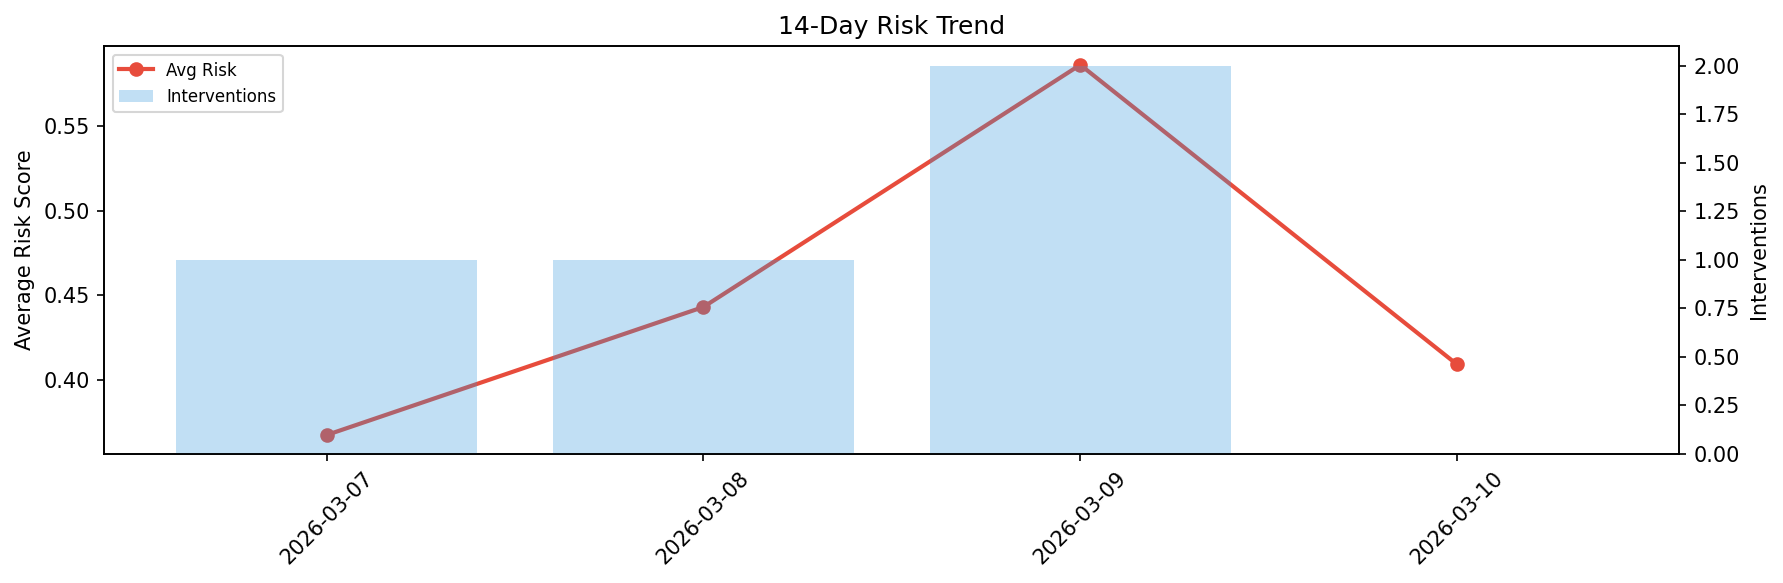
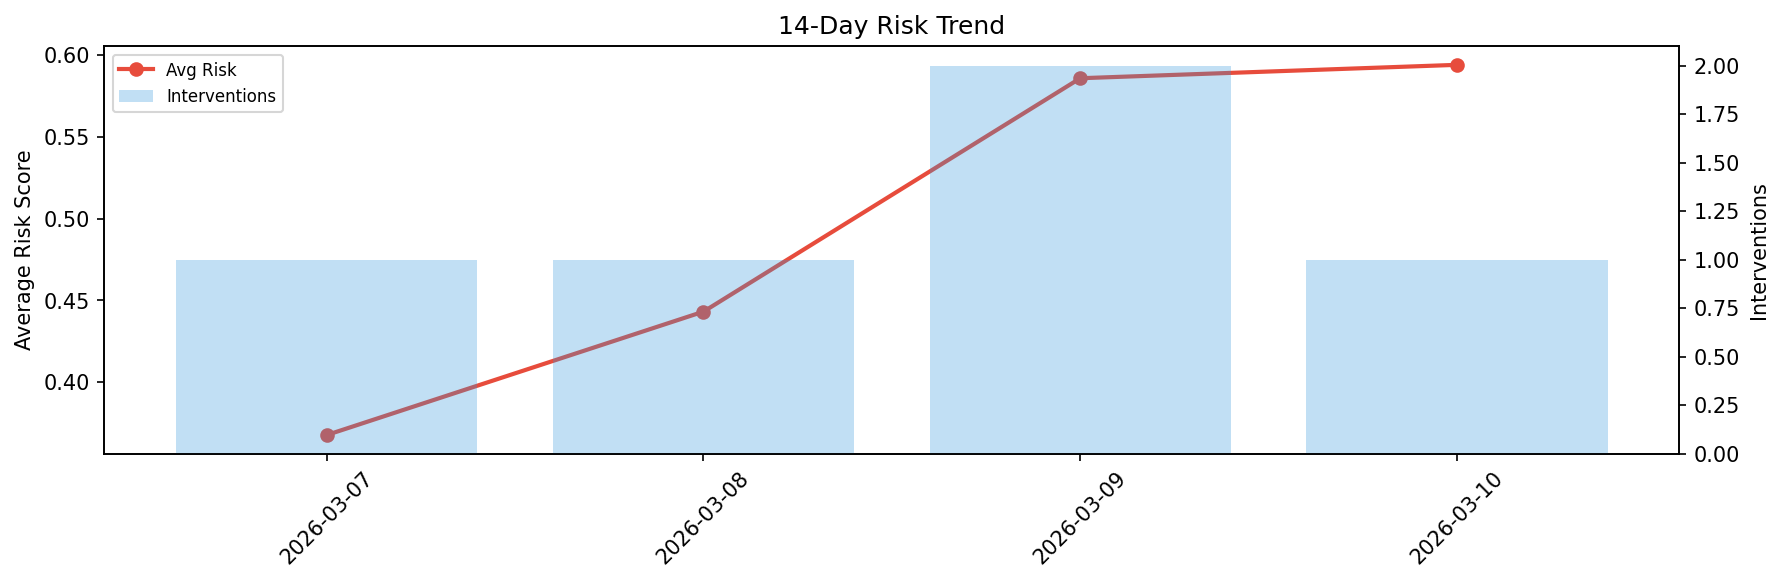
agent-improvement: daily cycle 2026-03-10T20:49

diff --git a/logs/2026-03-10.md b/logs/2026-03-10.md
@@ -1,6 +1,6 @@
 # Agent Improvement Report — 2026-03-10
 
-**Cycle ID:** `262a33b6` | **Avg Risk:** 0.4092 | **Interventions:** 0/4
+**Cycle ID:** `9e5422d9` | **Avg Risk:** 0.5941 | **Interventions:** 1/4
 
 ![Dashboard](2026-03-10_dashboard.png)
 
@@ -10,18 +10,18 @@
 
 | Domain | Risk Score | Decision | Alerts |
 |--------|-----------|----------|--------|
-| code_review | 0.2841 | monitor | none |
-| incident_response | 0.427 | monitor | none |
-| data_pipeline | 0.4112 | monitor | none |
-| deployment | 0.5144 | monitor | canary_error |
+| code_review | 0.4385 | monitor | none |
+| incident_response | 0.5311 | monitor | none |
+| data_pipeline | 0.5784 | monitor | freshness |
+| deployment | 0.8283 | intervene | canary_error, latency_p99 |
 
 ## Delta vs Yesterday
 
 | Domain | Today | Yesterday | Change |
 |--------|-------|-----------|--------|
-| code_review | 0.2841 | 0.8957 | 📉 -68.3% |
-| incident_response | 0.427 | 0.2941 | 📈 45.2% |
-| data_pipeline | 0.4112 | 0.6279 | 📉 -34.5% |
-| deployment | 0.5144 | 0.5259 | 📉 -2.2% |
+| code_review | 0.4385 | 0.8957 | 📉 -51.0% |
+| incident_response | 0.5311 | 0.2941 | 📈 80.6% |
+| data_pipeline | 0.5784 | 0.6279 | 📉 -7.9% |
+| deployment | 0.8283 | 0.5259 | 📈 57.5% |
 
 **Refinement:** `{'adjustment': 'tighten_thresholds', 'trend': 'degrading', 'window': 4}`
